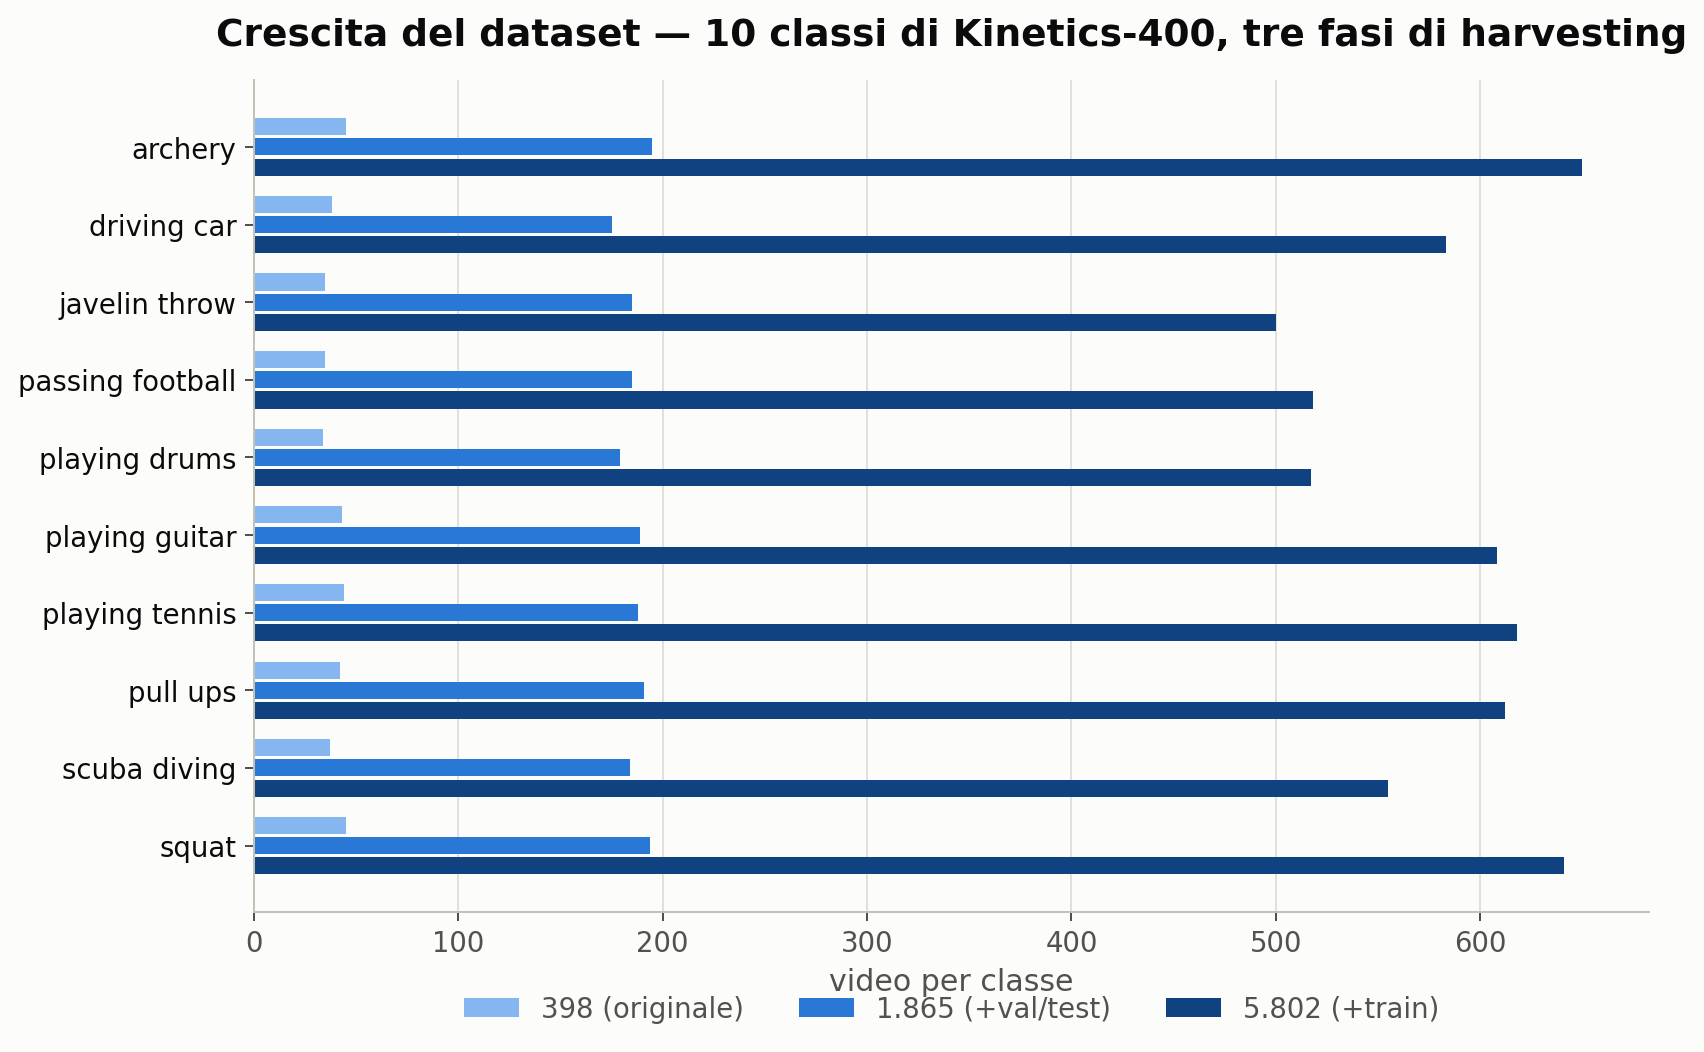
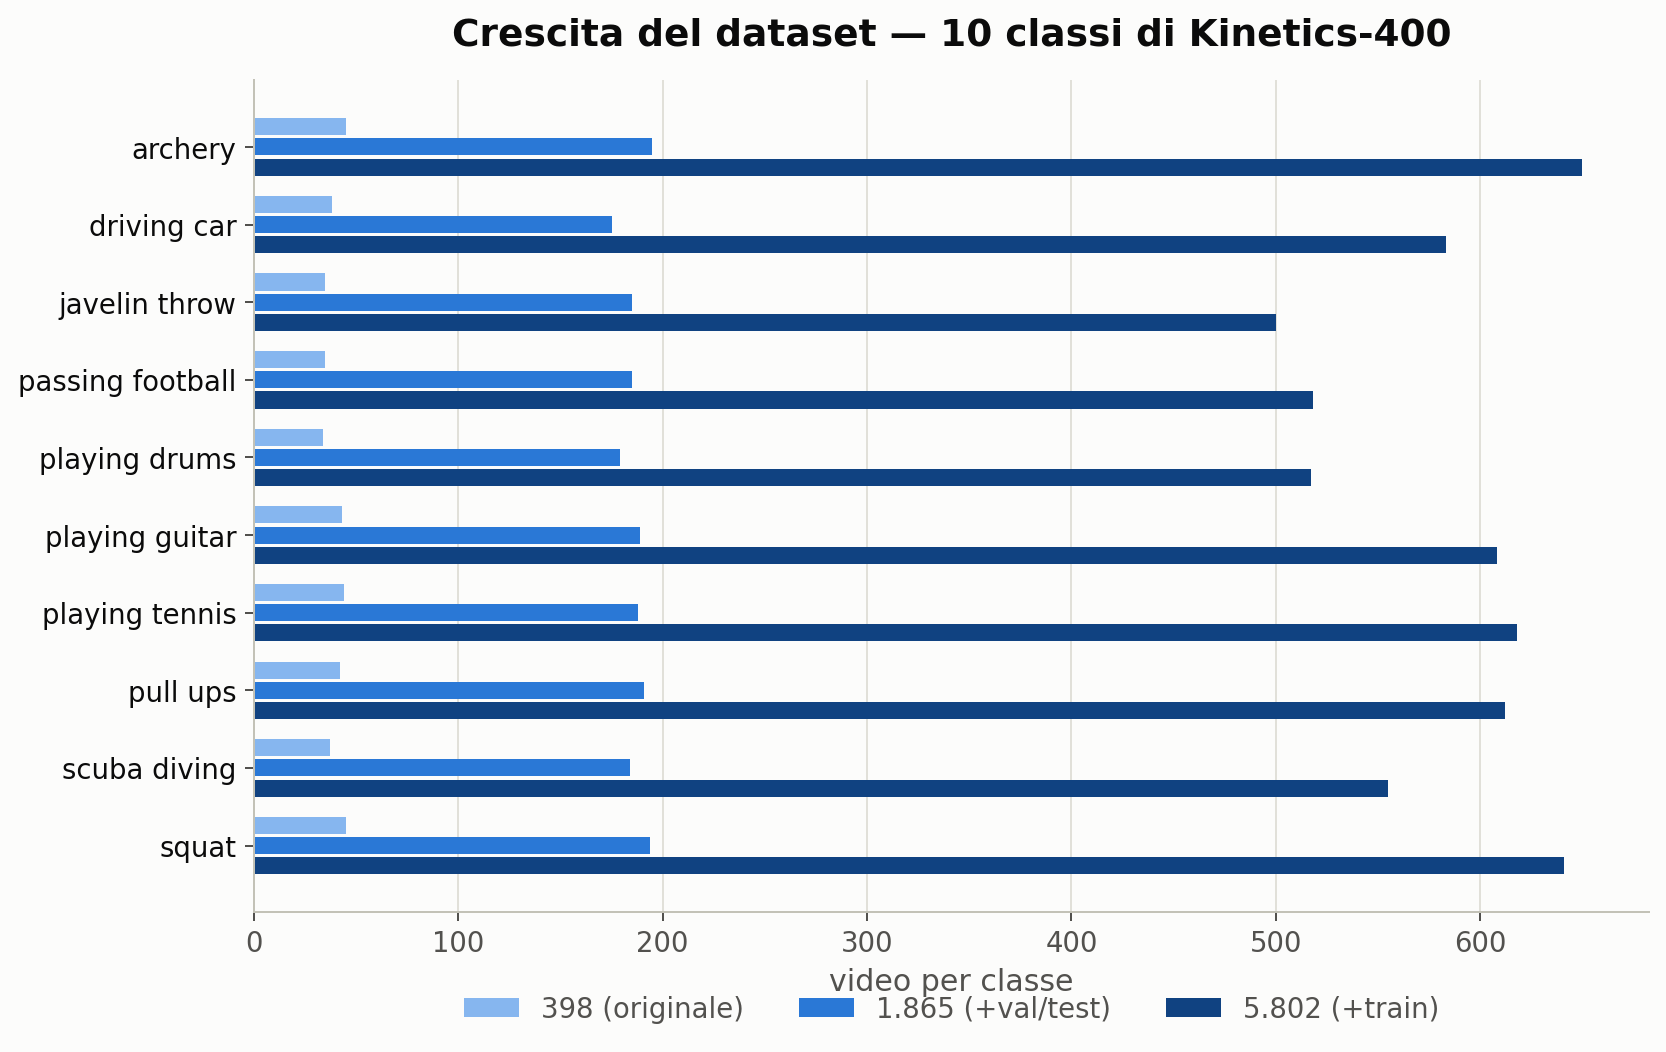
Raise panel titles in regime comparison figure

diff --git a/src/utils/plot_results.py b/src/utils/plot_results.py
@@ -105,7 +105,7 @@ def fig_dataset_growth() -> None:
     ax.invert_yaxis()
     ax.set_xlabel("video per classe", fontsize=12, color=INK2)
     ax.set_title(
-        "Crescita del dataset — 10 classi di Kinetics-400, tre fasi di harvesting",
+        "Crescita del dataset — 10 classi di Kinetics-400",
         fontsize=15, color=INK, fontweight="bold", pad=14,
     )
     # Legenda sotto il grafico: dentro l'area dati collide con le barre
@@ -156,7 +156,7 @@ def fig_loop_schema() -> None:
 
     ax.text(1.85, 5.35, "Iterazione 0 = baseline (nessun fine-tuning)", fontsize=10.5, color=INK2, ha="left")
     ax.set_title(
-        "Clustering iterativo in stile DeepCluster — anatomia del loop",
+        "Clustering iterativo in stile DeepCluster",
         fontsize=15, color=INK, fontweight="bold", pad=12,
     )
     save(fig, "iterative_loop_schema.png")
@@ -187,7 +187,7 @@ def fig_resnet_regimes() -> None:
                  marker="o", markersize=6, linewidth=2, color=color, label=label)
     ax1.set_xlabel("iterazione", fontsize=12, color=INK2)
     ax1.set_ylabel("purity (%)", fontsize=12, color=INK2)
-    ax1.set_title("Qualità dei cluster", fontsize=13, color=INK)
+    ax1.set_title("Qualità dei cluster", fontsize=13, color=INK, pad=14)
     ax1.legend(frameon=False, fontsize=10.5, labelcolor=INK2)
 
     ax2 = fig.add_subplot(122)
@@ -198,7 +198,7 @@ def fig_resnet_regimes() -> None:
         ax2.plot(iters, losses, marker="o", markersize=6, linewidth=2, color=color, label=label)
     ax2.set_xlabel("iterazione", fontsize=12, color=INK2)
     ax2.set_ylabel("loss media (cross-entropy pesata)", fontsize=12, color=INK2)
-    ax2.set_title("Il termometro del regime: la loss", fontsize=13, color=INK)
+    ax2.set_title("Variazione Loss", fontsize=13, color=INK, pad=14)
     ax2.legend(frameon=False, fontsize=10.5, labelcolor=INK2)
 
     fig.tight_layout(rect=(0, 0, 1, 0.93))
